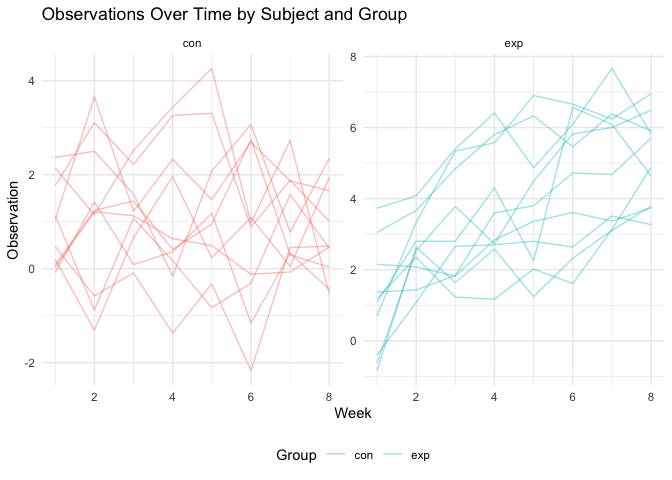
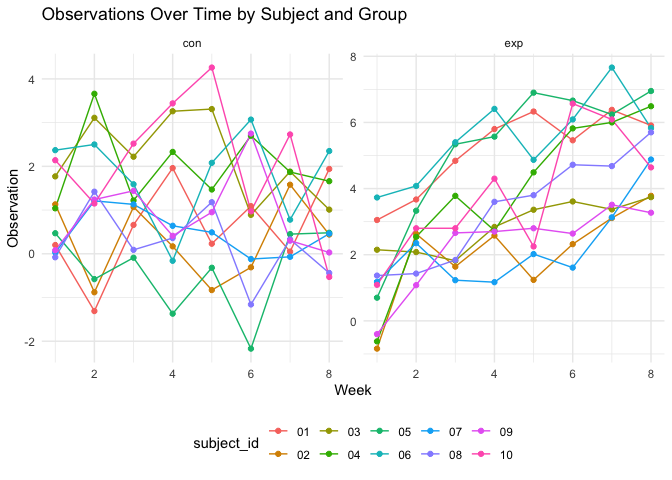
print out some results for problem two and problem three

diff --git a/p8105_hw5_xw2962.md b/p8105_hw5_xw2962.md
@@ -41,7 +41,7 @@ city_summary=
   mutate(city_state = paste(city, state, sep = ", "),
 # create a city_state variable
          unsolved = disposition %in% c('Closed without arrest', 'Open/No arrest')) |> 
-  group_by(city) |> 
+  group_by(city_state) |> 
   summarise(
     total_homicides = n(),
 # summarize within cities to obtain the total number of homicides
@@ -49,12 +49,29 @@ city_summary=
   ) |> 
 # summarize within cities to obtain the number of unsolved homicides
   ungroup() 
+city_summary=city_summary[city_summary$city_state!="Tulsa, AL",]
+city_summary
 ```
+
+    ## # A tibble: 50 × 3
+    ##    city_state      total_homicides unsolved_homicides
+    ##    <chr>                     <int>              <int>
+    ##  1 Albuquerque, NM             378                146
+    ##  2 Atlanta, GA                 973                373
+    ##  3 Baltimore, MD              2827               1825
+    ##  4 Baton Rouge, LA             424                196
+    ##  5 Birmingham, AL              800                347
+    ##  6 Boston, MA                  614                310
+    ##  7 Buffalo, NY                 521                319
+    ##  8 Charlotte, NC               687                206
+    ##  9 Chicago, IL                5535               4073
+    ## 10 Cincinnati, OH              694                309
+    ## # ℹ 40 more rows
 
 #### Estimate the Proportion of Homicides that are Unsolved for Baltimore
 
 ``` r
-baltimore_df <- homicide_df  |>
+baltimore_df = homicide_df  |>
   mutate(city_state = paste(city, state, sep = ", ")) |>
   filter(city_state == "Baltimore, MD")
 # filter for Baltimore, MD
@@ -65,8 +82,27 @@ prop_test_result = prop.test(x = sum(baltimore_df$disposition %in% c("Closed wit
 tidy_result = broom::tidy(prop_test_result)
 # save the output and apply broom::tidy to get a tidy dataframe
 estimated_proportion = tidy_result$estimate
+estimated_proportion
+```
+
+    ##         p 
+    ## 0.6455607
+
+``` r
 conf_low = tidy_result$conf.low
+conf_low
+```
+
+    ## [1] 0.6277411
+
+``` r
 conf_high = tidy_result$conf.high
+conf_high
+```
+
+    ## [1] 0.6629852
+
+``` r
 # pull the estimated proportion and confidence intervals from the resulting tidy dataframe
 ```
 
@@ -79,7 +115,7 @@ city_prop_test_results = city_summary  |>
 # run prop.test for each of the cities in your dataset
     tidy_result = map(prop_test_result, broom::tidy)
   ) |>
-  select(city, tidy_result) |>
+  select(city_state, tidy_result) |>
   unnest(tidy_result) |>
   select(-statistic, -p.value,-parameter, -method, -alternative) 
 # create a tidy dataframe with estimated proportions and CIs for each city
@@ -87,18 +123,18 @@ print(city_prop_test_results)
 ```
 
     ## # A tibble: 50 × 4
-    ##    city        estimate conf.low conf.high
-    ##    <chr>          <dbl>    <dbl>     <dbl>
-    ##  1 Albuquerque    0.386    0.337     0.438
-    ##  2 Atlanta        0.383    0.353     0.415
-    ##  3 Baltimore      0.646    0.628     0.663
-    ##  4 Baton Rouge    0.462    0.414     0.511
-    ##  5 Birmingham     0.434    0.399     0.469
-    ##  6 Boston         0.505    0.465     0.545
-    ##  7 Buffalo        0.612    0.569     0.654
-    ##  8 Charlotte      0.300    0.266     0.336
-    ##  9 Chicago        0.736    0.724     0.747
-    ## 10 Cincinnati     0.445    0.408     0.483
+    ##    city_state      estimate conf.low conf.high
+    ##    <chr>              <dbl>    <dbl>     <dbl>
+    ##  1 Albuquerque, NM    0.386    0.337     0.438
+    ##  2 Atlanta, GA        0.383    0.353     0.415
+    ##  3 Baltimore, MD      0.646    0.628     0.663
+    ##  4 Baton Rouge, LA    0.462    0.414     0.511
+    ##  5 Birmingham, AL     0.434    0.399     0.469
+    ##  6 Boston, MA         0.505    0.465     0.545
+    ##  7 Buffalo, NY        0.612    0.569     0.654
+    ##  8 Charlotte, NC      0.300    0.266     0.336
+    ##  9 Chicago, IL        0.736    0.724     0.747
+    ## 10 Cincinnati, OH     0.445    0.408     0.483
     ## # ℹ 40 more rows
 
 ``` r
@@ -108,7 +144,7 @@ print(city_prop_test_results)
 #### Create a Plot that Shows the Estimates and CIs for each City
 
 ``` r
-ggplot(city_prop_test_results, aes(x = reorder(city, estimate), y = estimate)) +
+ggplot(city_prop_test_results, aes(x = reorder(city_state, estimate), y = estimate)) +
   geom_point() +
 # create a point plot that shows the estimates and CIs for each city and organize cities according to the proportion of unsolved homicides.
   geom_errorbar(aes(ymin = conf.low, ymax = conf.high), width = 0.2) +
@@ -167,13 +203,30 @@ tidy_df = files_df  |>
   unnest(data) |> 
   mutate(week = as.numeric(gsub("week_", "", week)))
 # tidy the resulting dataset 
+tidy_df
 ```
+
+    ## # A tibble: 160 × 4
+    ##    subject_id arm    week observation
+    ##    <chr>      <chr> <dbl>       <dbl>
+    ##  1 01         con       1        0.2 
+    ##  2 01         con       2       -1.31
+    ##  3 01         con       3        0.66
+    ##  4 01         con       4        1.96
+    ##  5 01         con       5        0.23
+    ##  6 01         con       6        1.09
+    ##  7 01         con       7        0.05
+    ##  8 01         con       8        1.94
+    ##  9 02         con       1        1.13
+    ## 10 02         con       2       -0.88
+    ## # ℹ 150 more rows
 
 #### Make a Spaghetti Plot
 
 ``` r
-spaghetti_plot = ggplot(tidy_df, aes(x = week, y = observation, group = subject_id)) +
-  geom_line(aes(color = arm), alpha = 0.4) +
+spaghetti_plot = ggplot(tidy_df, aes(x = week, y = observation, color = subject_id)) +
+  geom_line() +
+  geom_point()+
 # make a Spaghetti Plot and set the transparency level to 0.4 
   facet_wrap(~ arm, scales = 'free_y') +  
 # Separating the groups into different arms 
@@ -181,7 +234,7 @@ spaghetti_plot = ggplot(tidy_df, aes(x = week, y = observation, group = subject_
   labs(title = "Observations Over Time by Subject and Group",
        x = "Week",
        y = "Observation",
-       color = "Group") +
+       color = "subject_id") +
 # add title and axis labels 
   theme(legend.position = "bottom")
 print(spaghetti_plot)
@@ -243,6 +296,25 @@ simulation_results = bind_rows(simulation_results, .id = "true_mu")  |>
   mutate(true_mu = as.numeric(true_mu))
 # Combine all the results into one tibble
 
+print(simulation_results)
+```
+
+    ## # A tibble: 35,000 × 4
+    ##    mu_hat p_value true_mu rejected
+    ##     <dbl>   <dbl>   <dbl> <lgl>   
+    ##  1 -0.394   0.678       0 FALSE   
+    ##  2  1.11    0.275       0 FALSE   
+    ##  3 -0.536   0.508       0 FALSE   
+    ##  4 -0.159   0.851       0 FALSE   
+    ##  5  0.993   0.346       0 FALSE   
+    ##  6  0.528   0.627       0 FALSE   
+    ##  7 -0.504   0.607       0 FALSE   
+    ##  8 -1.28    0.199       0 FALSE   
+    ##  9 -0.540   0.600       0 FALSE   
+    ## 10 -1.33    0.156       0 FALSE   
+    ## # ℹ 34,990 more rows
+
+``` r
 power_and_estimates = simulation_results |>
   group_by(true_mu)  |> 
   summarise(
@@ -250,7 +322,19 @@ power_and_estimates = simulation_results |>
     average_mu_hat = mean(mu_hat)
   )
 # Calculate power and average estimates
+print(power_and_estimates)
 ```
+
+    ## # A tibble: 7 × 3
+    ##   true_mu  power average_mu_hat
+    ##     <dbl>  <dbl>          <dbl>
+    ## 1       0 0.0498      -0.000499
+    ## 2       1 0.190        1.01    
+    ## 3       2 0.551        1.97    
+    ## 4       3 0.895        3.01    
+    ## 5       4 0.989        4.00    
+    ## 6       5 0.999        4.98    
+    ## 7       6 1            6.00
 
 #### Make a plot showing the the power of the test on the y axis and the true value of μ on the x axis.
 
